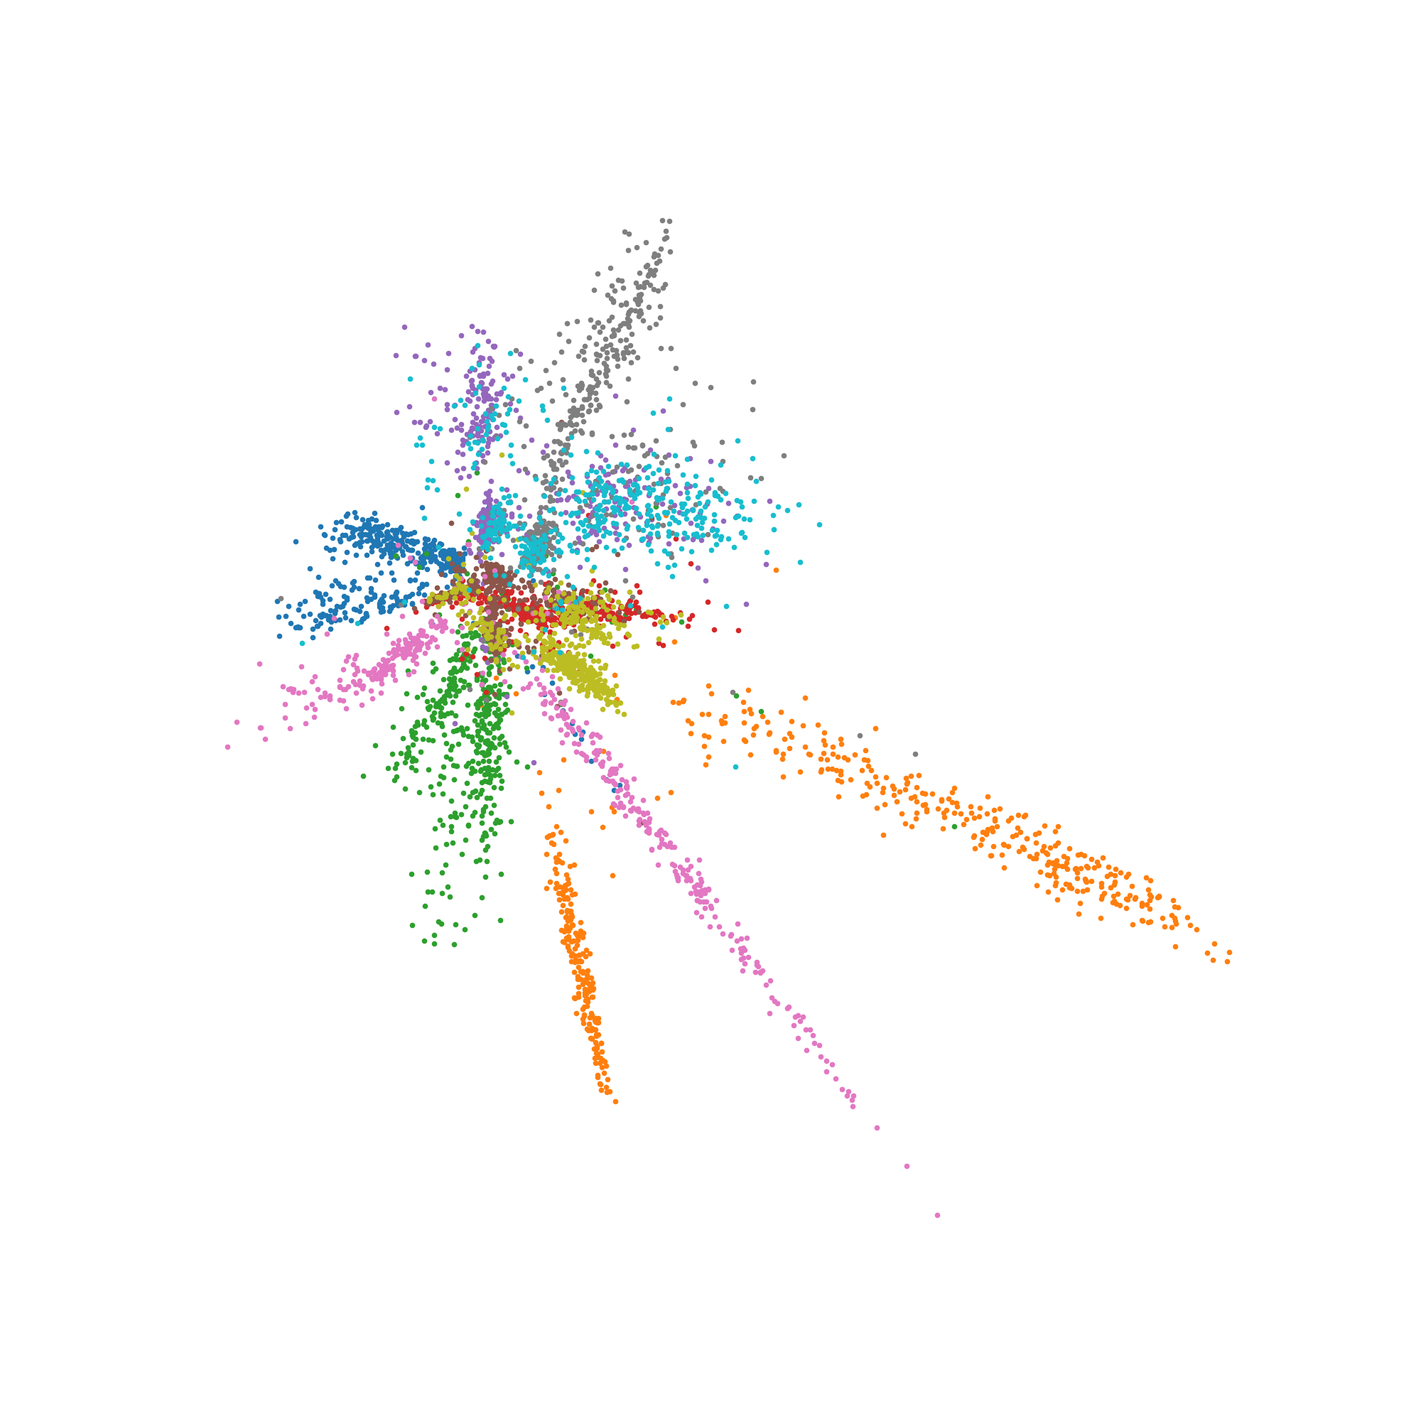
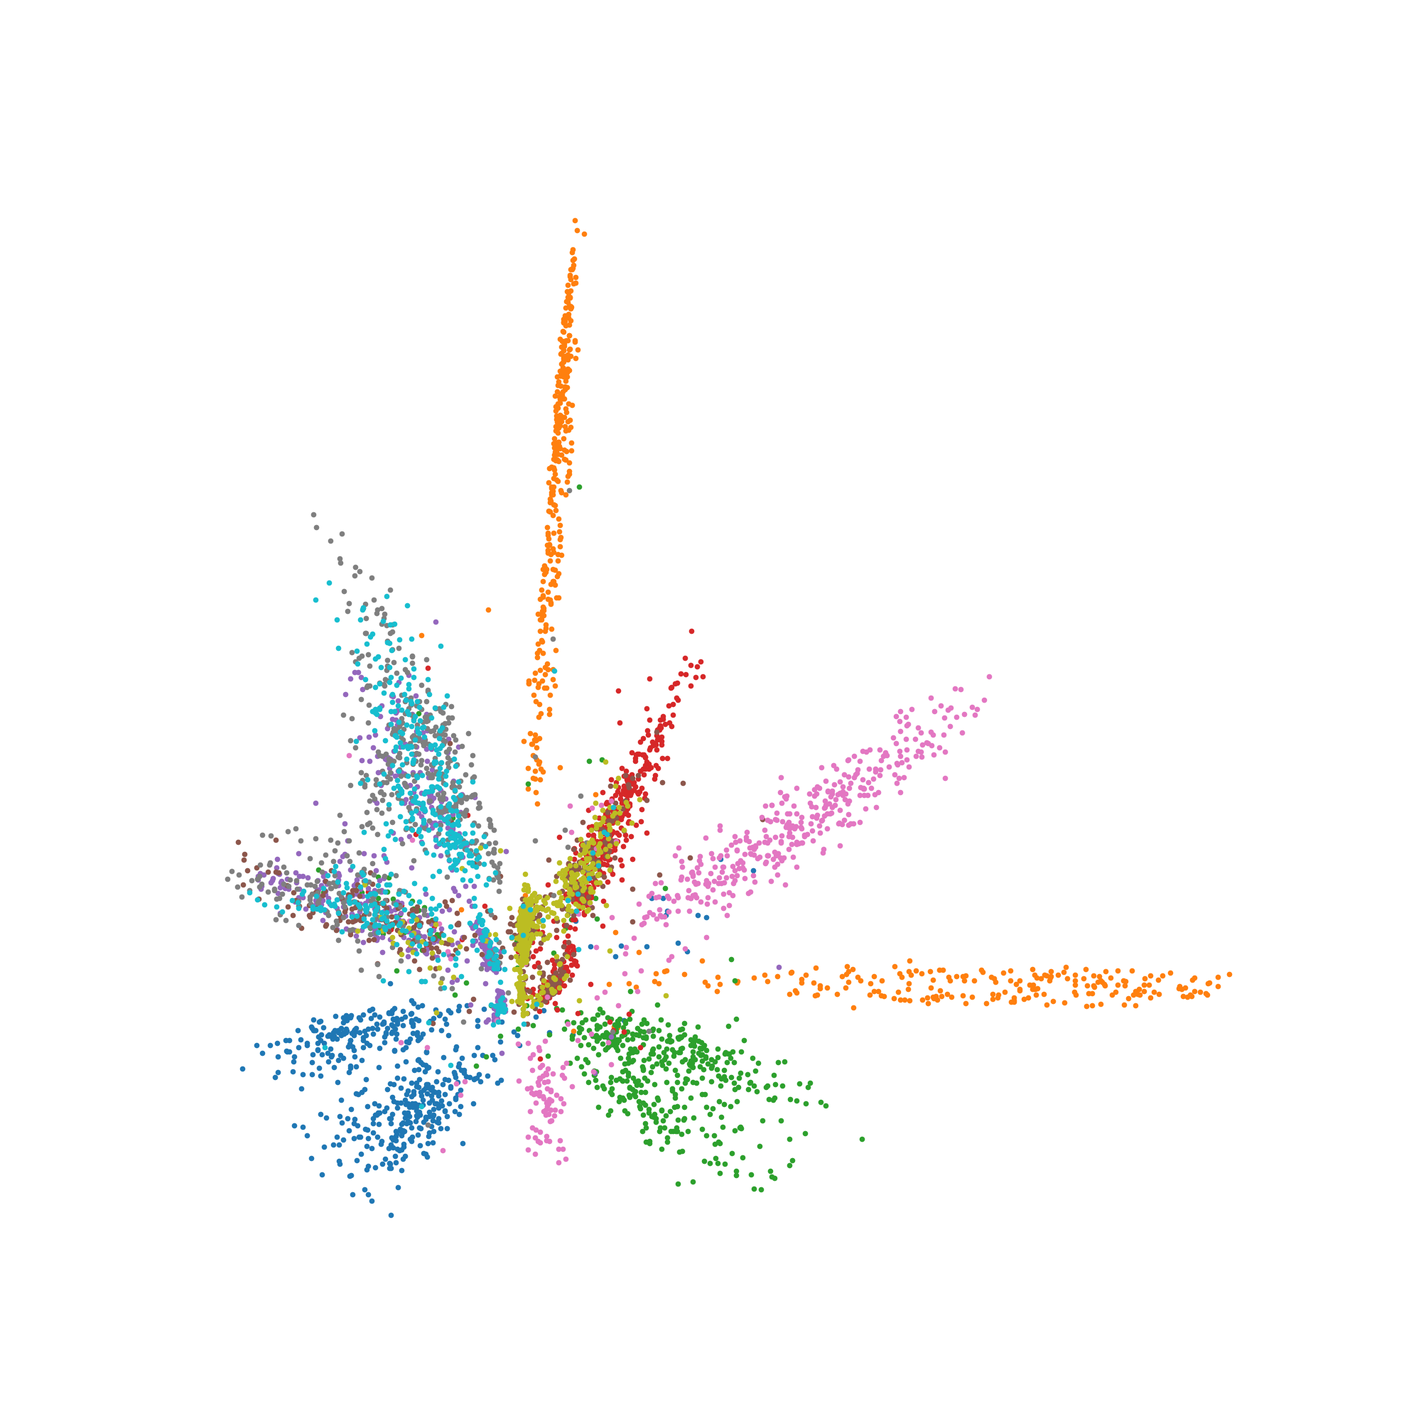
add first version of sdr support, more datasets and control for parameters

Changed region(s): [[0.155, 0.155, 0.868, 0.837]]

diff --git a/code_ssnp/experiment1_direct.py b/code_ssnp/experiment1_direct.py
@@ -3,6 +3,7 @@
 
 import os
 import warnings
+from itertools import product
 
 from sklearn.ensemble import IsolationForest
 from sklearn.neighbors import LocalOutlierFactor
@@ -23,6 +24,7 @@ from skimage import io
 from sklearn.cluster import (AgglomerativeClustering, KMeans)
 from sklearn.model_selection import train_test_split
 from umap import UMAP
+from tqdm import tqdm
 
 import ae
 import metrics
@@ -57,10 +59,10 @@ def cantor_pairing(y1, y2):
 
 
 if __name__ == '__main__':
-    patience = 5
-    epochs = 200
+    # patience = 5
+    # epochs = 200
 
-    min_delta = 0.05
+    # min_delta = 0.05
 
     verbose = False
     results = []
@@ -71,169 +73,208 @@ if __name__ == '__main__':
         os.makedirs(output_dir)
 
     data_dir = '../data'
-    data_dirs = ['mnist', 'fashionmnist', 'har', 'reuters']
+    data_dirs = ['mnist', 'fashionmnist', 'har', 'reuters', '20_newsgroups_bow', '20_newsgroups_tfidf', 'ag_news_bow',
+                 'ag_news_tfidf', 'hatespeech_bow', 'hatespeech_tfidf', 'imdb_bow', 'imdb_tfidf', 'sms_spam_bow',
+                 'sms_spam_tfidf']
+    classes_mult_set = [1, 2, 3, 4, 5]
+    epochs_set = [10, 20, 30, 40, 50, 60, 70, 80, 90, 100, 200, 300, 400, 500, 600, 700, 800, 900, 1000]
+    patience_set = [1, 2, 3, 4, 5, 6, 7, 8, 9, 10]
+    min_delta_set = [0.01, 0.02, 0.03, 0.04, 0.05, 0.06, 0.07, 0.08, 0.09, 0.1]
+    param_grid = list(product(epochs_set, classes_mult_set, patience_set, min_delta_set))
 
-    epochs_dataset = {}
-    epochs_dataset['fashionmnist'] = 10
-    epochs_dataset['mnist'] = 10
-    epochs_dataset['har'] = 10
-    epochs_dataset['reuters'] = 10
+    for num_epoch, num_classes_mult, patience, min_delta in tqdm(param_grid):
+        epochs_dataset = dict()
+        for dataset_name in data_dirs:
+            epochs_dataset[dataset_name] = num_epoch
 
-    classes_mult = {}
-    classes_mult['fashionmnist'] = 2
-    classes_mult['mnist'] = 2
-    classes_mult['har'] = 2
-    classes_mult['reuters'] = 1
+        classes_mult = dict()
+        for dataset_name in data_dirs:
+            classes_mult[dataset_name] = num_classes_mult
+        # epochs_dataset = {'fashionmnist': 10, 'mnist': 10, 'har': 10, 'reuters': 10, '20_newsgroups_bow': 10,
+        #                  '20_newsgroups_tfidf': 10, 'ag_news_bow': 10, 'ag_news_tfidf': 10, 'hatespeech_bow': 10,
+        #                  'hatespeech_tfidf': 10, 'imdb_bow': 10, 'imdb_tfidf': 10, 'sms_spam_bow': 10,
+        #                  'sms_spam_tfidf': 10}
 
-    for d in data_dirs:
-        dataset_name = d
+        # classes_mult = {'fashionmnist': 2, 'mnist': 2, 'har': 2, 'reuters': 1, '20_newsgroups_bow': 2,
+        #                '20_newsgroups_tfidf': 2, 'ag_news_bow': 2, 'ag_news_tfidf': 2, 'hatespeech_bow': 2,
+        #                'hatespeech_tfidf': 2, 'imdb_bow': 2, 'imdb_tfidf': 2, 'sms_spam_bow': 2, 'sms_spam_tfidf': 2}
 
-        X = np.load(os.path.join(data_dir, d, 'X.npy'))
-        y = np.load(os.path.join(data_dir, d, 'y.npy'))
+        for d in data_dirs:
+            dataset_name = d
 
-        print('------------------------------------------------------')
-        print('Dataset: {0}'.format(dataset_name))
-        print(X.shape)
-        print(y.shape)
-        print(np.unique(y))
+            X = np.load(os.path.join(data_dir, d, 'X.npy'))
+            y = np.load(os.path.join(data_dir, d, 'y.npy'))
 
-        n_classes = len(np.unique(y)) * classes_mult[dataset_name]
-        n_samples = X.shape[0]
+            print('------------------------------------------------------')
+            print('Dataset: {0}'.format(dataset_name))
+            print(X.shape)
+            print(y.shape)
+            print(np.unique(y))
 
-        train_size = min(int(n_samples * 0.9), 5000)
+            n_classes = len(np.unique(y)) * classes_mult[dataset_name]
+            n_samples = X.shape[0]
 
-        X_train, _, y_train, _ = train_test_split(X, y, train_size=train_size, random_state=420, stratify=y)
-        D_high = metrics.compute_distance_list(X_train)
+            train_size = min(int(n_samples * 0.9), 5000)
 
-        epochs = epochs_dataset[dataset_name]
+            X_train, _, y_train, _ = train_test_split(X, y, train_size=train_size, random_state=420, stratify=y)
+            D_high = metrics.compute_distance_list(X_train)
 
-        ssnpgt = ssnp.SSNP(epochs=epochs, verbose=verbose, patience=0, opt='adam', bottleneck_activation='linear')
-        ssnpgt.fit(X_train, y_train)
-        X_ssnpgt = ssnpgt.transform(X_train)
+            epochs = epochs_dataset[dataset_name]
 
-        ssnpkm = ssnp.SSNP(epochs=epochs, verbose=verbose, patience=0, opt='adam', bottleneck_activation='linear')
-        C = KMeans(n_clusters=n_classes)
-        y_km = C.fit_predict(X_train)
-        ssnpkm.fit(X_train, y_km)
-        X_ssnpkm = ssnpkm.transform(X_train)
+            ssnpgt = ssnp.SSNP(epochs=epochs, verbose=verbose, patience=0, opt='adam', bottleneck_activation='linear')
+            ssnpgt.fit(X_train, y_train)
+            X_ssnpgt = ssnpgt.transform(X_train)
 
-        ssnpif = ssnp.SSNP(epochs=epochs, verbose=verbose, patience=0, opt='adam', bottleneck_activation='linear')
-        outlier_model = IsolationForest()
-        y_if = outlier_model.fit_predict(X_train)
-        y_if = np.array([0 if el == -1 else el for el in y_if])
-        ssnpif.fit(X_train, y_if)
-        X_ssnpif = ssnpif.transform(X_train)
+            ssnpkm = ssnp.SSNP(epochs=epochs, verbose=verbose, patience=0, opt='adam', bottleneck_activation='linear')
+            C = KMeans(n_clusters=n_classes)
+            y_km = C.fit_predict(X_train)
+            ssnpkm.fit(X_train, y_km)
+            X_ssnpkm = ssnpkm.transform(X_train)
 
-        ssnpkmif = ssnp.SSNP(epochs=epochs, verbose=verbose, patience=0, opt='adam', bottleneck_activation='linear')
-        y_res_kmif = cantor_pairing(y_km, y_if)
-        ssnpkmif.fit(X_train, y_res_kmif)
-        X_ssnpkmif = ssnpkmif.transform(X_train)
+            ssnpif = ssnp.SSNP(epochs=epochs, verbose=verbose, patience=0, opt='adam', bottleneck_activation='linear')
+            outlier_model = IsolationForest()
+            y_if = outlier_model.fit_predict(X_train)
+            y_if = np.array([0 if el == -1 else el for el in y_if])
+            ssnpif.fit(X_train, y_if)
+            X_ssnpif = ssnpif.transform(X_train)
 
-        ssnpag = ssnp.SSNP(epochs=epochs, verbose=verbose, patience=0, opt='adam', bottleneck_activation='linear')
-        C = AgglomerativeClustering(n_clusters=n_classes)
-        y_ag = C.fit_predict(X_train)
-        ssnpag.fit(X_train, y_ag)
-        X_ssnpag = ssnpag.transform(X_train)
+            ssnpkmif = ssnp.SSNP(epochs=epochs, verbose=verbose, patience=0, opt='adam', bottleneck_activation='linear')
+            y_res_kmif = cantor_pairing(y_km, y_if)
+            ssnpkmif.fit(X_train, y_res_kmif)
+            X_ssnpkmif = ssnpkmif.transform(X_train)
 
-        ssnpagif = ssnp.SSNP(epochs=epochs, verbose=verbose, patience=0, opt='adam', bottleneck_activation='linear')
-        y_res_agif = cantor_pairing(y_ag, y_if)
-        ssnpagif.fit(X_train, y_res_agif)
-        X_ssnpagif = ssnpagif.transform(X_train)
+            ssnpag = ssnp.SSNP(epochs=epochs, verbose=verbose, patience=0, opt='adam', bottleneck_activation='linear')
+            C = AgglomerativeClustering(n_clusters=n_classes)
+            y_ag = C.fit_predict(X_train)
+            ssnpag.fit(X_train, y_ag)
+            X_ssnpag = ssnpag.transform(X_train)
 
-        ssnpkmagif = ssnp.SSNP(epochs=epochs, verbose=verbose, patience=0, opt='adam', bottleneck_activation='linear')
-        y_res_kmagif = cantor_pairing(y_res_kmif, y_ag)
-        ssnpkmagif.fit(X_train, y_res_kmagif)
-        X_ssnpkmagif = ssnpkmagif.transform(X_train)
+            ssnpagif = ssnp.SSNP(epochs=epochs, verbose=verbose, patience=0, opt='adam', bottleneck_activation='linear')
+            y_res_agif = cantor_pairing(y_ag, y_if)
+            ssnpagif.fit(X_train, y_res_agif)
+            X_ssnpagif = ssnpagif.transform(X_train)
 
-        ssnplof = ssnp.SSNP(epochs=epochs, verbose=verbose, patience=0, opt='adam', bottleneck_activation='linear')
-        outlier_model = LocalOutlierFactor()
-        y_lof = outlier_model.fit_predict(X_train)
-        y_lof = np.array([0 if el == -1 else el for el in y_lof])
-        ssnplof.fit(X_train, y_lof)
-        X_ssnplof = ssnplof.transform(X_train)
+            ssnpkmagif = ssnp.SSNP(epochs=epochs, verbose=verbose, patience=0, opt='adam',
+                                   bottleneck_activation='linear')
+            y_res_kmagif = cantor_pairing(y_res_kmif, y_ag)
+            ssnpkmagif.fit(X_train, y_res_kmagif)
+            X_ssnpkmagif = ssnpkmagif.transform(X_train)
 
-        ssnpkmlof = ssnp.SSNP(epochs=epochs, verbose=verbose, patience=0, opt='adam', bottleneck_activation='linear')
-        y_res_kmlof = cantor_pairing(y_km, y_lof)
-        ssnpkmlof.fit(X_train, y_res_kmlof)
-        X_ssnpkmlof = ssnpkmlof.transform(X_train)
+            ssnplof = ssnp.SSNP(epochs=epochs, verbose=verbose, patience=0, opt='adam', bottleneck_activation='linear')
+            outlier_model = LocalOutlierFactor()
+            y_lof = outlier_model.fit_predict(X_train)
+            y_lof = np.array([0 if el == -1 else el for el in y_lof])
+            ssnplof.fit(X_train, y_lof)
+            X_ssnplof = ssnplof.transform(X_train)
 
-        ssnpaglof = ssnp.SSNP(epochs=epochs, verbose=verbose, patience=0, opt='adam', bottleneck_activation='linear')
-        y_res_aglof = cantor_pairing(y_ag, y_lof)
-        ssnpaglof.fit(X_train, y_res_aglof)
-        X_ssnpaglof = ssnpaglof.transform(X_train)
+            ssnpkmlof = ssnp.SSNP(epochs=epochs, verbose=verbose, patience=0, opt='adam',
+                                  bottleneck_activation='linear')
+            y_res_kmlof = cantor_pairing(y_km, y_lof)
+            ssnpkmlof.fit(X_train, y_res_kmlof)
+            X_ssnpkmlof = ssnpkmlof.transform(X_train)
 
-        ssnpkmaglof = ssnp.SSNP(epochs=epochs, verbose=verbose, patience=0, opt='adam', bottleneck_activation='linear')
-        y_res_kmaglof = cantor_pairing(y_res_kmlof, y_ag)
-        ssnpkmaglof.fit(X_train, y_res_kmaglof)
-        X_ssnpkmaglof = ssnpkmaglof.transform(X_train)
+            ssnpaglof = ssnp.SSNP(epochs=epochs, verbose=verbose, patience=0, opt='adam',
+                                  bottleneck_activation='linear')
+            y_res_aglof = cantor_pairing(y_ag, y_lof)
+            ssnpaglof.fit(X_train, y_res_aglof)
+            X_ssnpaglof = ssnpaglof.transform(X_train)
 
-        tsne = TSNE(n_jobs=4, random_state=420)
-        X_tsne = tsne.fit_transform(X_train)
+            ssnpkmaglof = ssnp.SSNP(epochs=epochs, verbose=verbose, patience=0, opt='adam',
+                                    bottleneck_activation='linear')
+            y_res_kmaglof = cantor_pairing(y_res_kmlof, y_ag)
+            ssnpkmaglof.fit(X_train, y_res_kmaglof)
+            X_ssnpkmaglof = ssnpkmaglof.transform(X_train)
 
-        ump = UMAP(random_state=420)
-        X_umap = ump.fit_transform(X_train)
+            tsne = TSNE(n_jobs=4, random_state=420)
+            X_tsne = tsne.fit_transform(X_train)
 
-        aep = ae.AutoencoderProjection(epochs=epochs, verbose=0)
-        aep.fit(X_train)
-        X_aep = aep.transform(X_train)
+            ump = UMAP(random_state=420)
+            X_umap = ump.fit_transform(X_train)
 
-        nnp = nnproj.NNProj(init=TSNE(n_jobs=4, random_state=420))
-        nnp.fit(X_train)
-        X_nnp = nnp.transform(X_train)
+            aep = ae.AutoencoderProjection(epochs=epochs, verbose=0)
+            aep.fit(X_train)
+            X_aep = aep.transform(X_train)
 
-        D_ssnpgt = metrics.compute_distance_list(X_ssnpgt)
-        D_ssnpkm = metrics.compute_distance_list(X_ssnpkm)
-        D_ssnpif = metrics.compute_distance_list(X_ssnpif)
-        D_ssnpkmif = metrics.compute_distance_list(X_ssnpkmif)
-        D_ssnpag = metrics.compute_distance_list(X_ssnpag)
-        D_ssnpagif = metrics.compute_distance_list(X_ssnpagif)
-        D_ssnpkmagif = metrics.compute_distance_list(X_ssnpkmagif)
-        D_ssnplof = metrics.compute_distance_list(X_ssnplof)
-        D_ssnpkmlof = metrics.compute_distance_list(X_ssnpkmlof)
-        D_ssnpaglof = metrics.compute_distance_list(X_ssnpaglof)
-        D_ssnpkmaglof = metrics.compute_distance_list(X_ssnpkmaglof)
-        D_tsne = metrics.compute_distance_list(X_tsne)
-        D_umap = metrics.compute_distance_list(X_umap)
-        D_aep = metrics.compute_distance_list(X_aep)
-        D_nnp = metrics.compute_distance_list(X_nnp)
+            nnp = nnproj.NNProj(init=TSNE(n_jobs=4, random_state=420))
+            nnp.fit(X_train)
+            X_nnp = nnp.transform(X_train)
 
-        results.append((dataset_name, 'SSNP-GT',) + compute_all_metrics(X_train, X_ssnpgt, D_high, D_ssnpgt, y_train))
-        results.append(
-            (dataset_name, 'SSNP-KMeans',) + compute_all_metrics(X_train, X_ssnpkm, D_high, D_ssnpkm, y_train))
-        results.append(
-            (dataset_name, 'SSNP-IF',) + compute_all_metrics(X_train, X_ssnpif, D_high, D_ssnpif, y_train))
-        results.append(
-            (dataset_name, 'SSNP-KMeans-IF',) + compute_all_metrics(X_train, X_ssnpkmif, D_high, D_ssnpkmif, y_train))
-        results.append((dataset_name, 'SSNP-AG',) + compute_all_metrics(X_train, X_ssnpag, D_high, D_ssnpag, y_train))
-        results.append(
-            (dataset_name, 'SSNP-AG-IF',) + compute_all_metrics(X_train, X_ssnpagif, D_high, D_ssnpagif, y_train))
-        results.append(
-            (dataset_name, 'SSNP-KM-AG-IF',) + compute_all_metrics(X_train, X_ssnpkmagif, D_high, D_ssnpkmagif,
-                                                                   y_train))
-        results.append(
-            (dataset_name, 'SSNP-LOF',) + compute_all_metrics(X_train, X_ssnplof, D_high, D_ssnplof, y_train))
-        results.append(
-            (dataset_name, 'SSNP-KMeans-LOF',) + compute_all_metrics(X_train, X_ssnpkmlof, D_high, D_ssnpkmlof,
-                                                                     y_train))
-        results.append(
-            (dataset_name, 'SSNP-AG-LOF',) + compute_all_metrics(X_train, X_ssnpaglof, D_high, D_ssnpaglof, y_train))
-        results.append(
-            (dataset_name, 'SSNP-KM-AG-LOF',) + compute_all_metrics(X_train, X_ssnpkmaglof, D_high, D_ssnpkmaglof,
-                                                                    y_train))
-        results.append((dataset_name, 'AE',) + compute_all_metrics(X_train, X_aep, D_high, D_aep, y_train))
-        results.append((dataset_name, 'TSNE',) + compute_all_metrics(X_train, X_tsne, D_high, D_tsne, y_train))
-        results.append((dataset_name, 'UMAP',) + compute_all_metrics(X_train, X_umap, D_high, D_umap, y_train))
-        results.append((dataset_name, 'NNP',) + compute_all_metrics(X_train, X_nnp, D_high, D_nnp, y_train))
+            D_ssnpgt = metrics.compute_distance_list(X_ssnpgt)
+            D_ssnpkm = metrics.compute_distance_list(X_ssnpkm)
+            D_ssnpif = metrics.compute_distance_list(X_ssnpif)
+            D_ssnpkmif = metrics.compute_distance_list(X_ssnpkmif)
+            D_ssnpag = metrics.compute_distance_list(X_ssnpag)
+            D_ssnpagif = metrics.compute_distance_list(X_ssnpagif)
+            D_ssnpkmagif = metrics.compute_distance_list(X_ssnpkmagif)
+            D_ssnplof = metrics.compute_distance_list(X_ssnplof)
+            D_ssnpkmlof = metrics.compute_distance_list(X_ssnpkmlof)
+            D_ssnpaglof = metrics.compute_distance_list(X_ssnpaglof)
+            D_ssnpkmaglof = metrics.compute_distance_list(X_ssnpkmaglof)
+            D_tsne = metrics.compute_distance_list(X_tsne)
+            D_umap = metrics.compute_distance_list(X_umap)
+            D_aep = metrics.compute_distance_list(X_aep)
+            D_nnp = metrics.compute_distance_list(X_nnp)
 
-        for X_, label in zip([X_ssnpgt, X_ssnpkm, X_ssnpif, X_ssnpkmif, X_ssnpag, X_ssnpagif, X_ssnpkmagif,
-                              X_ssnplof, X_ssnpkmlof, X_ssnpaglof, X_ssnpkmaglof, X_umap, X_tsne, X_aep, X_nnp],
-                             ['SSNP-GT', 'SSNP-KMeans', 'SSNP-IF', 'SSNP-KMeans-IF', 'SSNP-AG', 'SSNP-AG-IF',
-                              'SSNP-KM-AG-IF',
-                              'SSNP-LOF', 'SSNP-KMeans-LOF', 'SSNP-AG-LOF', 'SSNP-KM-AG-LOF', 'UMAP', 'TSNE', 'AE',
-                              'NNP']):
-            fname = os.path.join(output_dir, '{0}_{1}.png'.format(dataset_name, label))
-            print(fname)
-            plot(X_, y_train, fname)
+            results.append(
+                (dataset_name, 'SSNP-GT',) + compute_all_metrics(X_train, X_ssnpgt, D_high, D_ssnpgt, y_train)
+                + (num_epoch, -1, patience, min_delta))
+            results.append(
+                (dataset_name, 'SSNP-KMeans',) + compute_all_metrics(X_train, X_ssnpkm, D_high, D_ssnpkm, y_train)
+                + (num_epoch, n_classes, patience, min_delta))
+            results.append(
+                (dataset_name, 'SSNP-IF',) + compute_all_metrics(X_train, X_ssnpif, D_high, D_ssnpif, y_train)
+                + (num_epoch, -1, patience, min_delta))
+            results.append(
+                (dataset_name, 'SSNP-KMeans-IF',) + compute_all_metrics(X_train, X_ssnpkmif, D_high, D_ssnpkmif,
+                                                                        y_train)
+                + (num_epoch, n_classes, patience, min_delta))
+            results.append(
+                (dataset_name, 'SSNP-AG',) + compute_all_metrics(X_train, X_ssnpag, D_high, D_ssnpag, y_train)
+                + (num_epoch, n_classes, patience, min_delta))
+            results.append(
+                (dataset_name, 'SSNP-AG-IF',) + compute_all_metrics(X_train, X_ssnpagif, D_high, D_ssnpagif, y_train)
+                + (num_epoch, n_classes, patience, min_delta))
+            results.append(
+                (dataset_name, 'SSNP-KM-AG-IF',) + compute_all_metrics(X_train, X_ssnpkmagif, D_high, D_ssnpkmagif,
+                                                                       y_train)
+                + (num_epoch, n_classes, patience, min_delta))
+            results.append(
+                (dataset_name, 'SSNP-LOF',) + compute_all_metrics(X_train, X_ssnplof, D_high, D_ssnplof, y_train)
+                + (num_epoch, -1, patience, min_delta))
+            results.append(
+                (dataset_name, 'SSNP-KMeans-LOF',) + compute_all_metrics(X_train, X_ssnpkmlof, D_high, D_ssnpkmlof,
+                                                                         y_train)
+                + (num_epoch, n_classes, patience, min_delta))
+            results.append(
+                (dataset_name, 'SSNP-AG-LOF',) + compute_all_metrics(X_train, X_ssnpaglof, D_high, D_ssnpaglof, y_train)
+                + (num_epoch, n_classes, patience, min_delta))
+            results.append(
+                (dataset_name, 'SSNP-KM-AG-LOF',) + compute_all_metrics(X_train, X_ssnpkmaglof, D_high, D_ssnpkmaglof,
+                                                                        y_train)
+                + (num_epoch, n_classes, patience, min_delta))
+            results.append((dataset_name, 'AE',) + compute_all_metrics(X_train, X_aep, D_high, D_aep, y_train)
+                           + (num_epoch, -1, patience, min_delta))
+            results.append((dataset_name, 'TSNE',) + compute_all_metrics(X_train, X_tsne, D_high, D_tsne, y_train)
+                           + (num_epoch, -1, patience, min_delta))
+            results.append((dataset_name, 'UMAP',) + compute_all_metrics(X_train, X_umap, D_high, D_umap, y_train)
+                           + (num_epoch, -1, patience, min_delta))
+            results.append((dataset_name, 'NNP',) + compute_all_metrics(X_train, X_nnp, D_high, D_nnp, y_train)
+                           + (num_epoch, n_classes, patience, min_delta))
+
+            for X_, label in zip([X_ssnpgt, X_ssnpkm, X_ssnpif, X_ssnpkmif, X_ssnpag, X_ssnpagif, X_ssnpkmagif,
+                                  X_ssnplof, X_ssnpkmlof, X_ssnpaglof, X_ssnpkmaglof, X_umap, X_tsne, X_aep, X_nnp],
+                                 ['SSNP-GT', 'SSNP-KMeans', 'SSNP-IF', 'SSNP-KMeans-IF', 'SSNP-AG', 'SSNP-AG-IF',
+                                  'SSNP-KM-AG-IF',
+                                  'SSNP-LOF', 'SSNP-KMeans-LOF', 'SSNP-AG-LOF', 'SSNP-KM-AG-LOF', 'UMAP', 'TSNE', 'AE',
+                                  'NNP']):
+                if "KM" in label or "AG" in label:
+                    fname = os.path.join(output_dir, '{0}_{1}_epochs_{2}_n_cluster_{3}_patience_{4}_min_delta_{5}.png'.
+                                         format(dataset_name, label, num_epoch, n_classes, patience, min_delta))
+                else:
+                    fname = os.path.join(output_dir, '{0}_{1}_epochs_{2}_patience_{3}_min_delta_{4}.png'.
+                                         format(dataset_name, label, num_epoch, patience, min_delta))
+                print(fname)
+                plot(X_, y_train, fname)
 
     df = pd.DataFrame(results, columns=['dataset_name',
                                         'test_name',
@@ -246,7 +287,11 @@ if __name__ == '__main__':
                                         'ha_train',
                                         'sh_train',
                                         'd_train',
-                                        'sdbw_train'])
+                                        'sdbw_train',
+                                        'num_epoch',
+                                        'n_cluster',
+                                        'patience',
+                                        'min_delta'])
 
     df.to_csv(os.path.join(output_dir, 'metrics.csv'), header=True, index=False)
 

diff --git a/code_ssnp/perform_sdr.py b/code_ssnp/perform_sdr.py
@@ -42,6 +42,9 @@ def consumer(i, q, sdr_command):
         total = data['total']
         stop = data['stop']
 
+        if os.path.isfile(os.path.join(path, "info.txt")):
+            continue
+
         if stop:
             break
 
